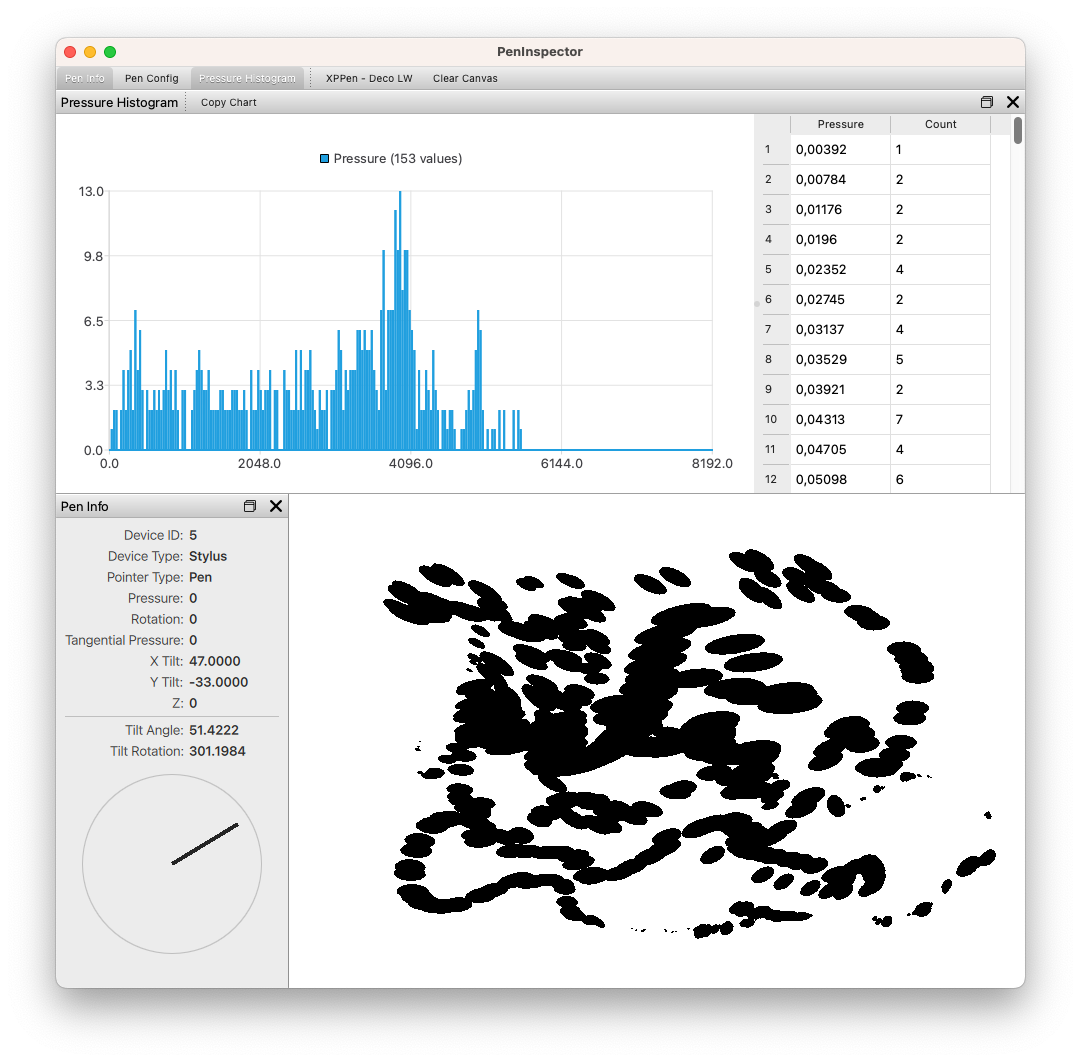
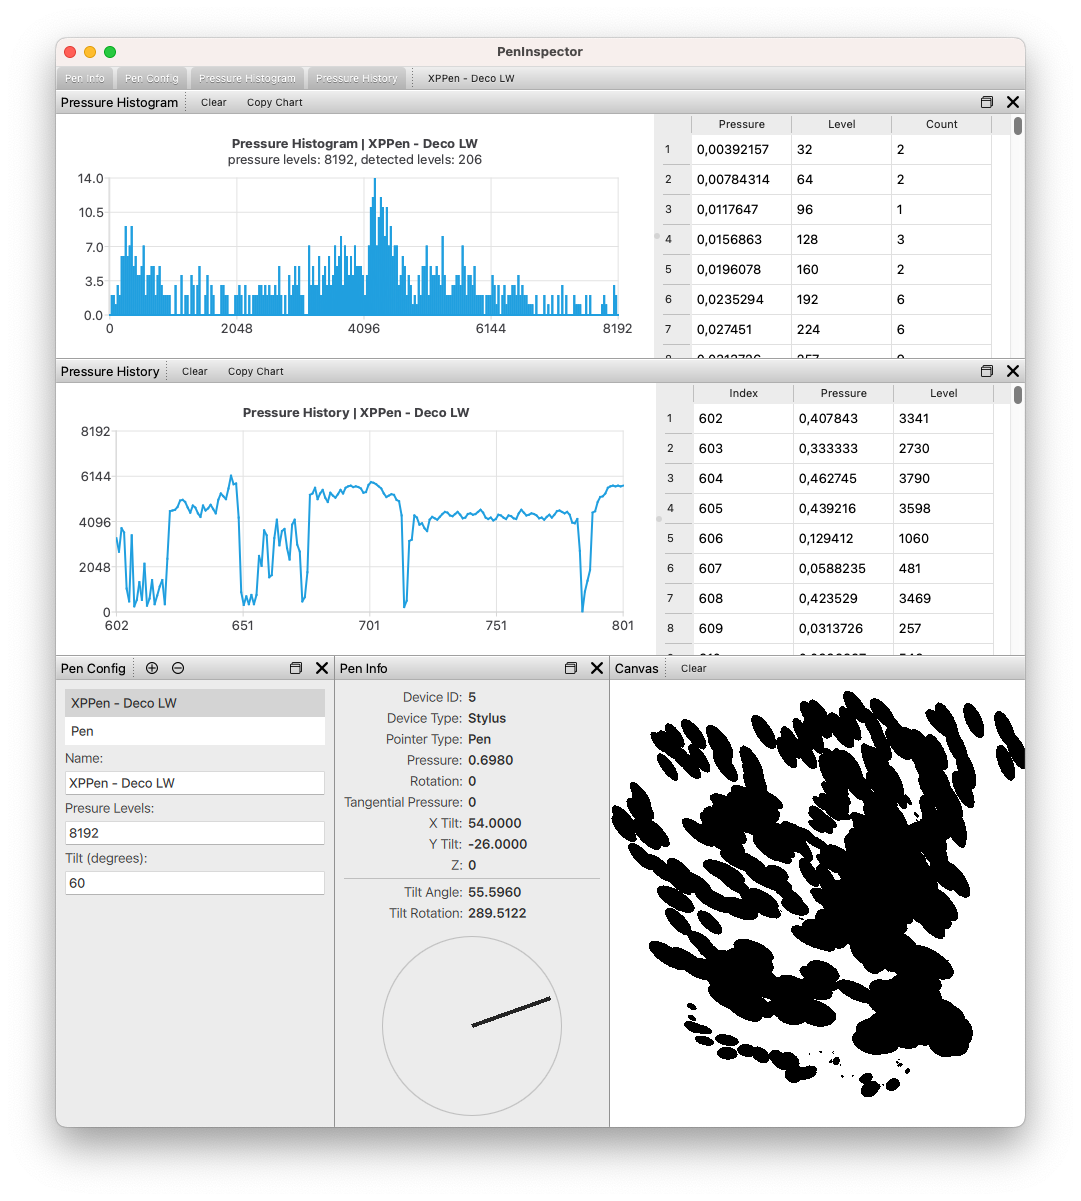
updated readme and app screenshots

Changed region(s): [[0.0305, 0.0311, 0.9463, 0.9633], [0.1832, 0.7768, 0.2137, 0.8079], [0.0611, 0.1554, 0.0916, 0.1864]]

diff --git a/README.md b/README.md
@@ -2,7 +2,7 @@
 
 Simple Qt application to inspect data provided by graphics tablet styluses.
 
-Tested on macOS, but it should work on Windows and Linux, too.
+Tested on macOS.
 
 ![main window](docs/main_window.png)
 
@@ -11,24 +11,23 @@ Tested on macOS, but it should work on Windows and Linux, too.
 * configure your stylus using the **Pen Config** dock
 * select one of your styluses as the active one in the top application toolbar
 * draw something with your stylus in the canvas area
-* the **Pressure Histogram** dock will show a histogram with the pressure values reported by the stylus
-* copy the chart image to clipboard using **Copy Chart** button from the *Pressure Histogram* dock toolbar
+* the **Pressure Histogram** dock will show a histogram with the pressure
+* the **Pressure History** dock will show the actual pressure level as you draw in the canvas area
+* copy the chart images to clipboard using **Copy Chart** buttons from the *Pressure Histogram* or *Pressure History* docks' toolbars
 
 ### Pen Config Dock
 
 * set a name so that you can identify your pen in the top toolbar
 * the *pressure levels* is used by the **Pressure Histogram** to determine possible bucket values (stylus pressure is reported by Qt as a real number between 0.0 and 1.0)
-* use **Append** to append a new empty config to the end of the config list
-* use **Remove** to remove the **selected** configuration
-* when the app starts with no configured pen, a default pen (XPPen Deco LW) is created by the app
-* this configuration can be changed or deleted, but if there are no other configured pens when the app closes, it will be recreated on restart
+* use the **Plus** button to add a new config to the end of the config list
+* use the **Minus** button to remove the **selected** configuration
+* when the app starts the first time or finds no configured pen on start, a default pen (XPPen Deco LW) will be created
 
 ![pen config](docs/pen_config_dock.png)
 
 ### Pen Info Dock
 
-* displays data reported by Qt from the stylus
-* only the top values are actually reported by Qt (from the top till the separator)
+* displays data reported by operating system from the stylus
 * *tilt angle* and *tilt rotation* values are computed by the application
 
 ![pen info](docs/pen_info_dock.png)
@@ -36,8 +35,28 @@ Tested on macOS, but it should work on Windows and Linux, too.
 ### Pressure Histogram Dock
 
 * shows a histogram (left) and a table with pressure data (right)
-* the pressure data table contains the actual pressure value reported by Qt (in the *Pressure* column) and how many times it was reported (in the *Count* column)
+* the pressure data table contains:
+  * Pressure: the actual pressure value reported by the operating system
+  * Level: the level, based on the total number of pressure configured for the current pen
+  * Count: how many times this pressure/level was reported
 * use the separator between the histogram and the table to set their widths
+* use the **Clear** button to clear the chart
 * use the **Copy Chart** button to copy the chart to clipboard
 
 ![pressure histogram](docs/pressure_histogram_dock.png)
+
+### Pressure History Dock
+
+* shows a graph with pressure (left) and a table with pressure data (right)
+* every time the operating system reports a new pen event, the pressure value is added at the end (right side) of this graph
+* the pressure data table contains:
+  * Index: the index of the pressure value
+  * Pressure: the actual pressure value reported by the operating system
+  * Level: the level, based on the total number of pressure configured for the current pen
+* use the separator between the histogram and the table to set their widths
+* use the **Clear** button to clear the chart
+* use the **Copy Chart** button to copy the chart to clipboard
+
+![pressure history](docs/pressure_history_dock.png)
+
+Copyright (C) 2022 by Ioan Calin Borcoman (<iborco@gmail.com>)
